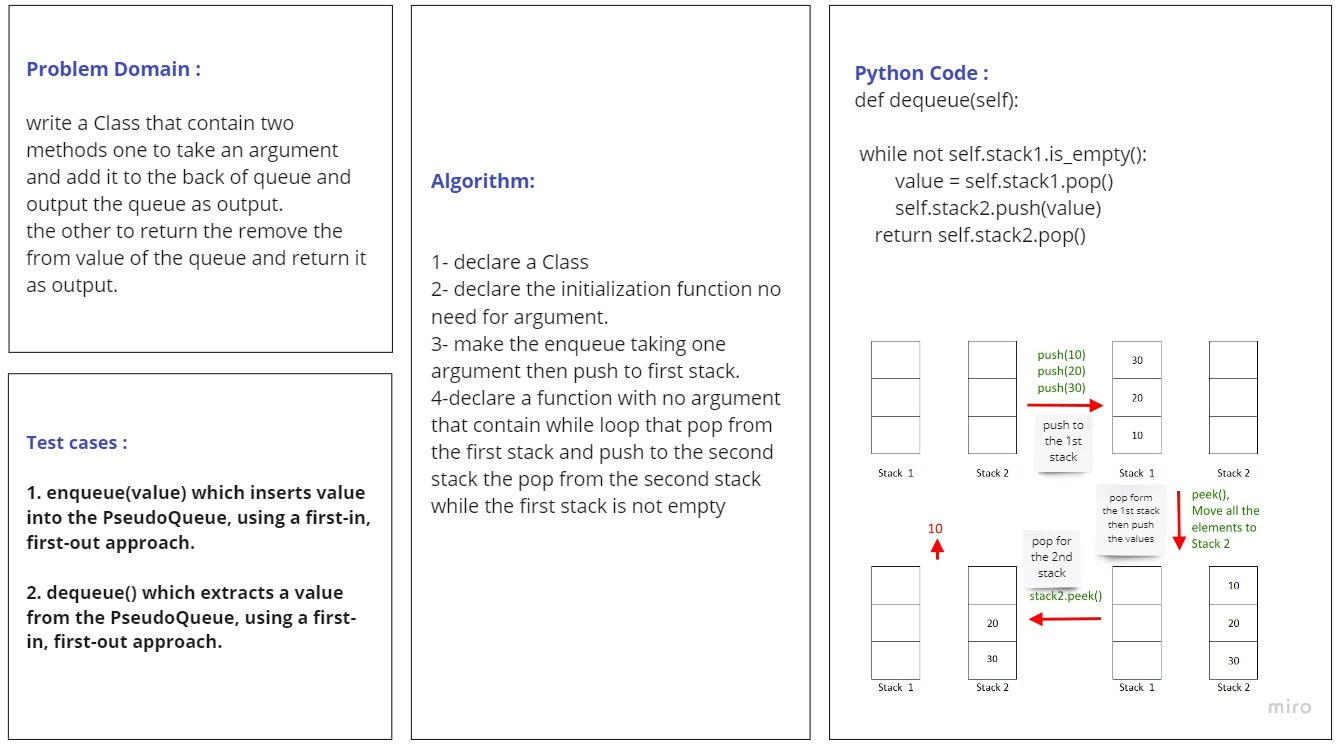
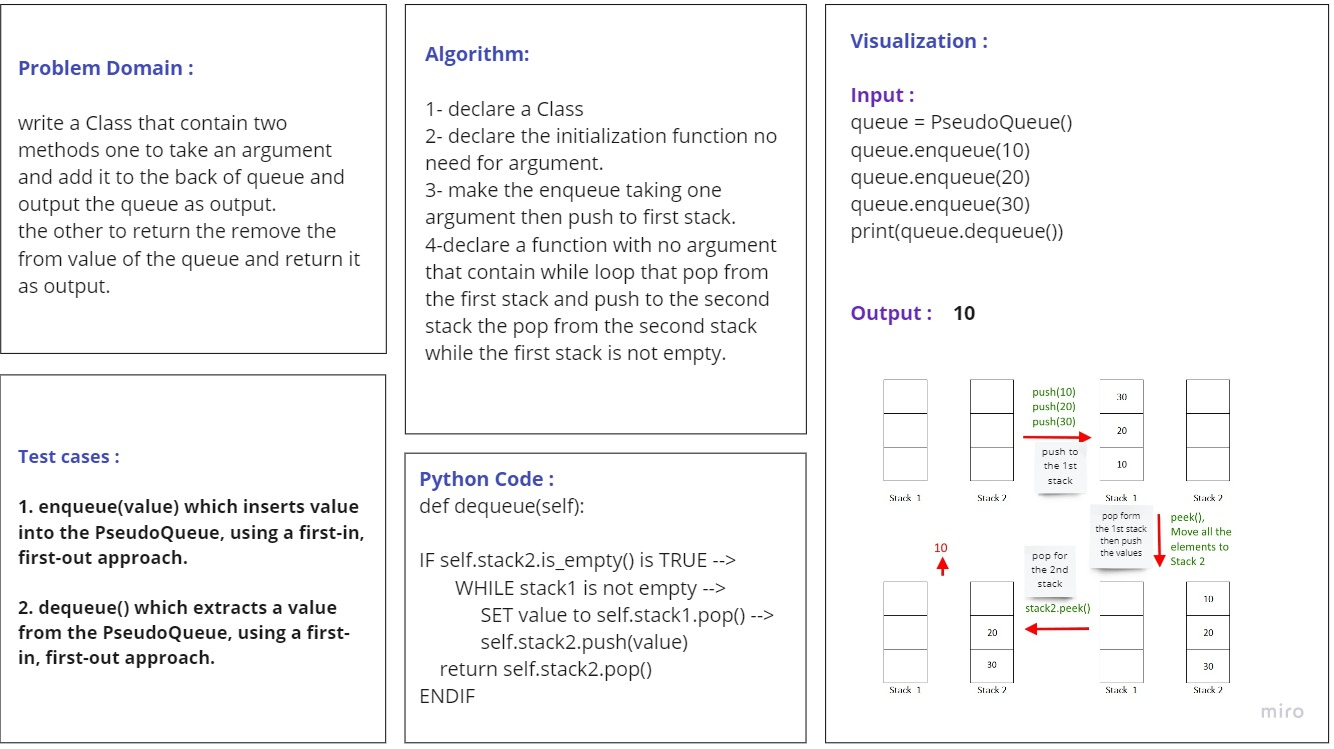
fixing code challenges

diff --git a/test/test_animal_shelter.py b/test/test_animal_shelter.py
@@ -7,7 +7,7 @@ def test_enqueue_single_cat():
     tset enqueue single cat and check the dequeue based on pref
     """
     shelter = AnimalShelter()
-    cat = 'sherry'
+    cat = Cat('sherry')
     shelter.enqueue(cat)
     actual = shelter.dequeue('cat')
     expected = cat
@@ -19,11 +19,71 @@ def test_enqueue_single_dog():
     tset enqueue single dog and check the dequeue based on pref
     """
     shelter = AnimalShelter()
-    dog = 'Alex'
+    dog = Dog('Alex')
     shelter.enqueue(dog)
     actual = shelter.dequeue('dog')
     expected = dog
     assert actual == expected
 
 
+def test_dequeue_Pref_dog_but_front_is_cat():
+    """
+    tset dequeue if the pref is dog and the front is cat
+    """
+    shelter = AnimalShelter()
+    cat = Cat('sherry')
+    dog = Dog('Alex')
+    shelter.enqueue(cat)
+    shelter.enqueue(dog)
+    actual = shelter.dequeue('dog')
+    expected = dog
+    assert actual == expected
+
+
+def test_dequeue_pref_cat_but_front_is_dog():
+    """
+    tset dequeue if the pref is cat and the front is dog
+    """
+    shelter = AnimalShelter()
+    dog = Dog('Alex')
+    cat = Cat('sherry')
+    shelter.enqueue(dog)
+    shelter.enqueue(cat)
+    actual = shelter.dequeue('cat')
+    expected = cat
+    assert actual == expected
+
+
+def test_dequeue_preff_cat_but_front_is_dog():
+    """
+    tset multi enqueue and dequeue if the pref is cat and the front is dog
+    """
+    shelter = AnimalShelter()
+    dog1 = Dog('Alex')
+    cat1 = Cat('sherry')
+    dog2 = Dog('Alex')
+    cat2 = Cat('sherry')
+    shelter.enqueue(dog1)
+    shelter.enqueue(cat1)
+    shelter.enqueue(dog2)
+    shelter.enqueue(cat2)
+    actual = shelter.dequeue('cat')
+    expected = cat1
+    assert actual == expected
+
+
+def test_dequeue_invalid_pref():
+    """
+    test dequeue if the pref is invalid ( not a cat or not a dog )
+    """
+    shelter = AnimalShelter()
+    dog = Dog('Alex')
+    cat = Cat('sherry')
+    dog2 = Dog('Alex')
+    shelter.enqueue(dog)
+    shelter.enqueue(cat)
+    shelter.enqueue(dog2)
+    actual = shelter.dequeue('crocodile')
+    expected = None
+    assert actual == expected
 

diff --git a/animal_shelter/animal_shelter.py b/animal_shelter/animal_shelter.py
@@ -1,39 +1,40 @@
 from stack_and_queue.stack_and_queue import Queue
 
 class AnimalShelter:
-    def __init__(self, front=None, rear=None):
-        self.front = front
-        self.rear = rear
+    def __init__(self):
+        self.cats = Queue()
+        self.dogs = Queue()
 
-    def enqueue(self, value):
+    def enqueue(self, animal):
         """
-        adds a new animal with that value to the back of the queue with an O(1) Time performance.
+        this method will enqueue Dogs to dogs Queue and Cats to cats Queue
         """
-
-        animal = Queue()
-        if not self.rear:
-            self.front = animal
-            self.rear = animal
-        else:
-            self.rear.next = animal
-            self.rear = animal
-
+        if animal.type == 'Dog':
+            self.dogs.enqueue(animal)
+        elif animal.type == 'Cat':
+            self.cats.enqueue(animal)
 
     def dequeue(self, pref):
         """
-        Returns: the pref animal if it was the front but if the front not equal
-        to pref it will remove it and then re add it to the queue
-        then keeps doing it until it matches the preference
+        this method will take a pref as a parameter and
+        if the pref is cat, dequeue from cats Queue
+        if the pref is dogs, dequeue from dogs Queue
         """
-        if self.rear is not None:
-            if pref == 'dog' or pref == 'cat':
-
-                while self.front.data != pref:
-                    selected_animal = self.front
-                    self.front = self.front.next
-                    selected_animal.next = None
-                return selected_animal.data
-            else:
-                return None
+        if pref == 'dog':
+            return self.dogs.dequeue()
+        elif pref == 'cat':
+            return self.cats.dequeue()
         else:
-            raise Exception('queue is empty')
+            return None
+
+
+class Dog:
+    def __init__(self, name):
+        self.type = 'Dog'
+        self.name = name
+
+
+class Cat:
+    def __init__(self, name):
+        self.type = 'Cat'
+        self.name = name

diff --git a/test/test_pseudo_queue.py b/test/test_pseudo_queue.py
@@ -19,6 +19,39 @@ def test_Queue_enqueue(node2):
     expected = '9\n7\n5\n3\n1\n'
     assert expected == actual
 
+def test_exists():
+    assert PseudoQueue
+
+
+def test_enqueue_single():
+    pq = PseudoQueue()
+    pq.enqueue(20)
+    actual = pq.dequeue()
+    expected = 20
+    assert actual == expected
+
+
+def test_dequeue_twenty(pq):
+    actual = pq.dequeue()
+    expected = 20
+    assert actual == expected
+
+
+def test_dequeue_fifteen(pq):
+    pq.dequeue()
+    actual = pq.dequeue()
+    expected = 15
+    assert actual == expected
+
+
+@pytest.fixture
+def pq():
+    pq = PseudoQueue()
+    pq.enqueue(20)
+    pq.enqueue(15)
+    pq.enqueue(10)
+    return pq
+
 @pytest.fixture
 def node2():
     node2 = PseudoQueue()

diff --git a/pseudo_queue/pseudo_queue.py b/pseudo_queue/pseudo_queue.py
@@ -14,14 +14,12 @@ class PseudoQueue:
         self.stack1.push(value)
 
     def dequeue(self):
-
-        while not self.stack1.is_empty():
-            value = self.stack1.pop()
-            self.stack2.push(value)
+        if self.stack2.is_empty():
+            while not self.stack1.is_empty():
+                data_moved = self.stack1.pop()
+                self.stack2.push(data_moved)
         return self.stack2.pop()
 
-        while not self.stack2.is_empty():
-            pass
     def __str__(self):
         current = self.stack1.top
         items = ''

diff --git a/animal_shelter/README.md b/animal_shelter/README.md
@@ -1,11 +1,35 @@
 # Challenge Summary
 <!-- Description of the challenge -->
+- Create a class called AnimalShelter which holds only dogs and cats.
+- The shelter operates using a first-in, first-out approach.
+- Implement the following methods:
+  - enqueue
+  - Arguments: animal
+  - animal can be either a dog or a cat object.
+- dequeue
+  - Arguments: pref
+  - pref can be either "dog" or "cat"
+  - Return: either a dog or a cat, based on preference.
+  - If pref is not "dog" or "cat" then return null.
 
 ## Whiteboard Process
 <!-- Embedded whiteboard image -->
 
 ## Approach & Efficiency
 <!-- What approach did you take? Why? What is the Big O space/time for this approach? -->
-
+Big O
+- Time complexity: O(1)
+- Space complexity: O(1)
+- I used two queues
+  - dogs queue to enqueue the dogs objects
+  - cats queue to enqueue the cats objects
+  - enqueue and dequeue methods
 ## Solution
 <!-- Show how to run your code, and examples of it in action -->
+
+- tests
+All test Passed.
+
+Test Command
+
+pytest .\tests\test_animal_shelter.py

diff --git a/stack_queue_brackets/README.md b/stack_queue_brackets/README.md
@@ -6,10 +6,11 @@ Return: boolean
 - representing whether the brackets in the string are balanced
 
 ## Whiteboard Process
-
-
+![validate_brackets](validate_brackets.jpg)
+![Visualization](Visualization.jpg)
 ## Approach & Efficiency
-Time and space complexity for this method : O(n). 
+Time and space complexity for this method : O(n) because we are using a for loop to make sure
+if the brackets in the string are balanced or not 
 
 ## Solution
 To run this function you need to call the function and pass a string as an argument 
@@ -17,3 +18,9 @@ To run this function you need to call the function and pass a string as an argum
      validate_brackets('()[[Extra Characters]]')
      
      Output : True 
+
+Tests : 
+
+to run tests : 
+
+pytest test/test_stack_queue_brackets.py
